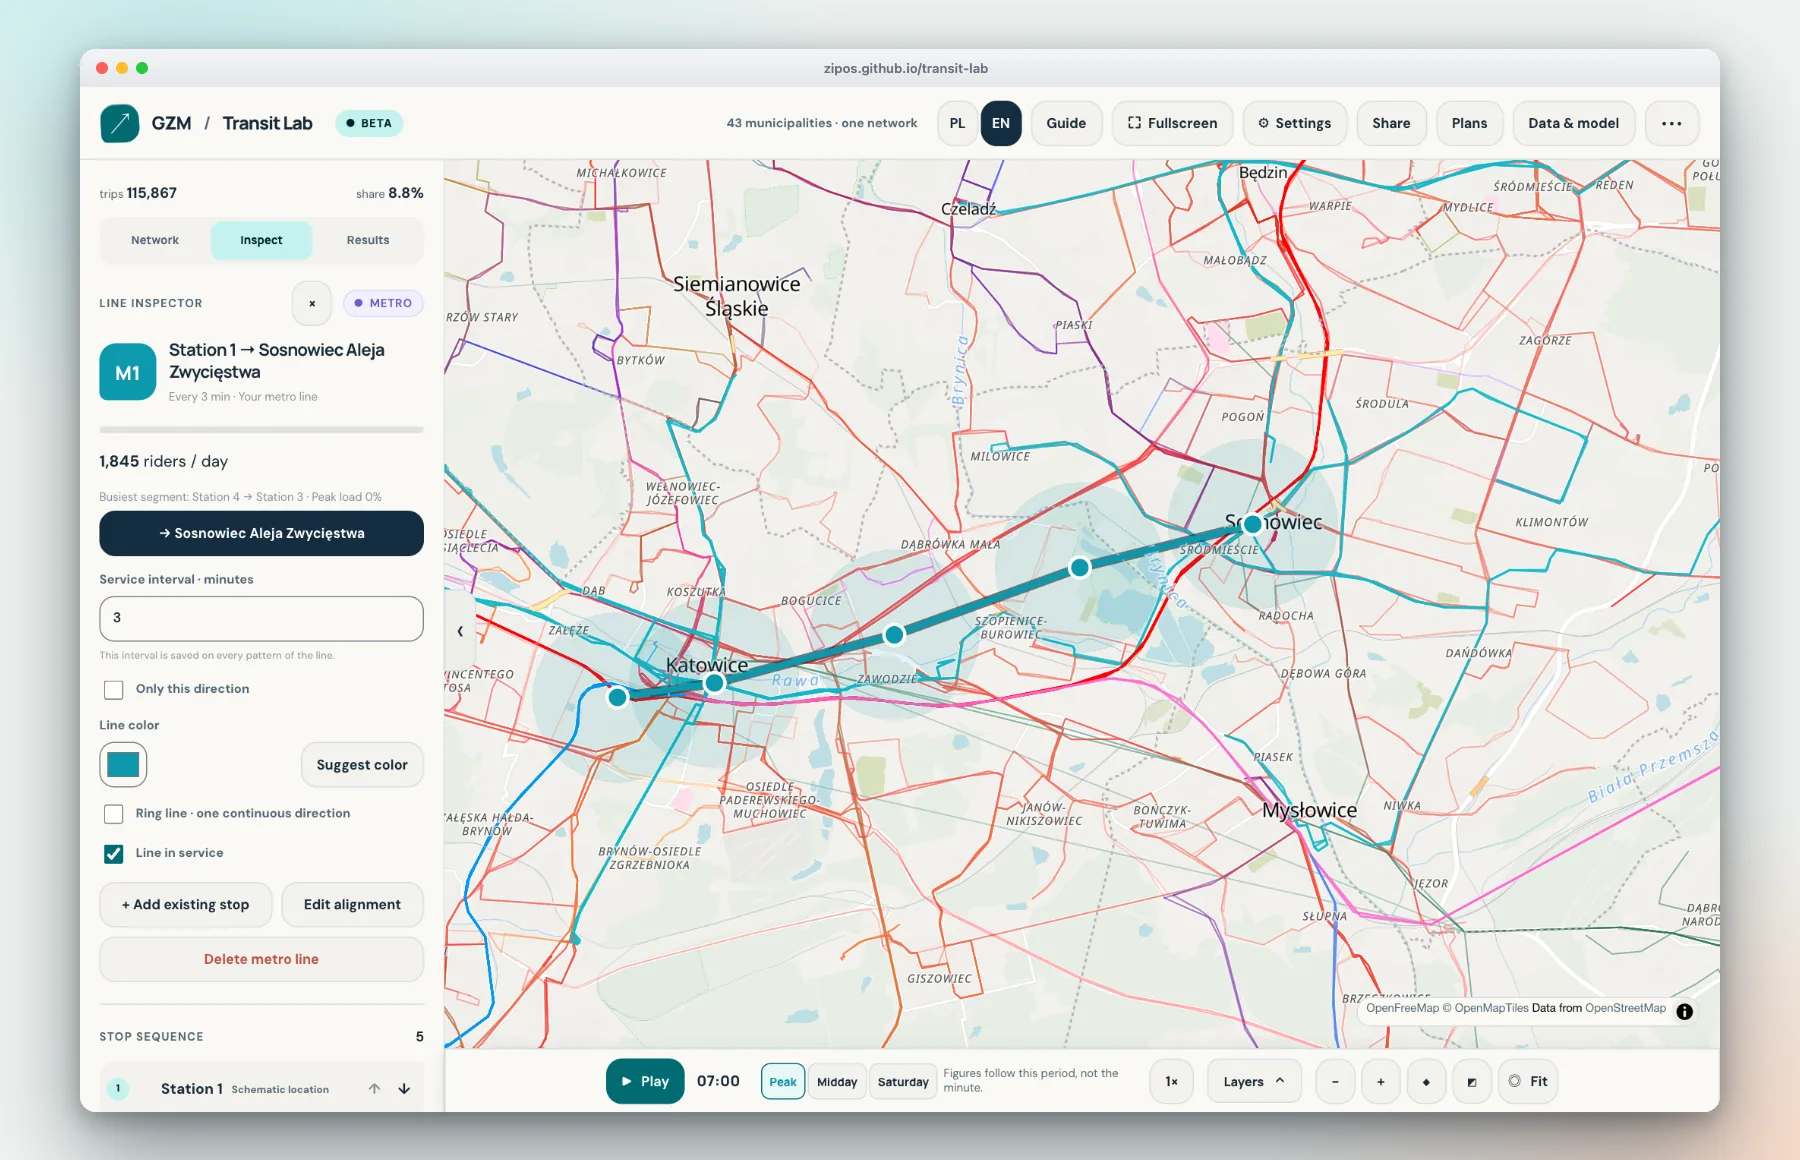
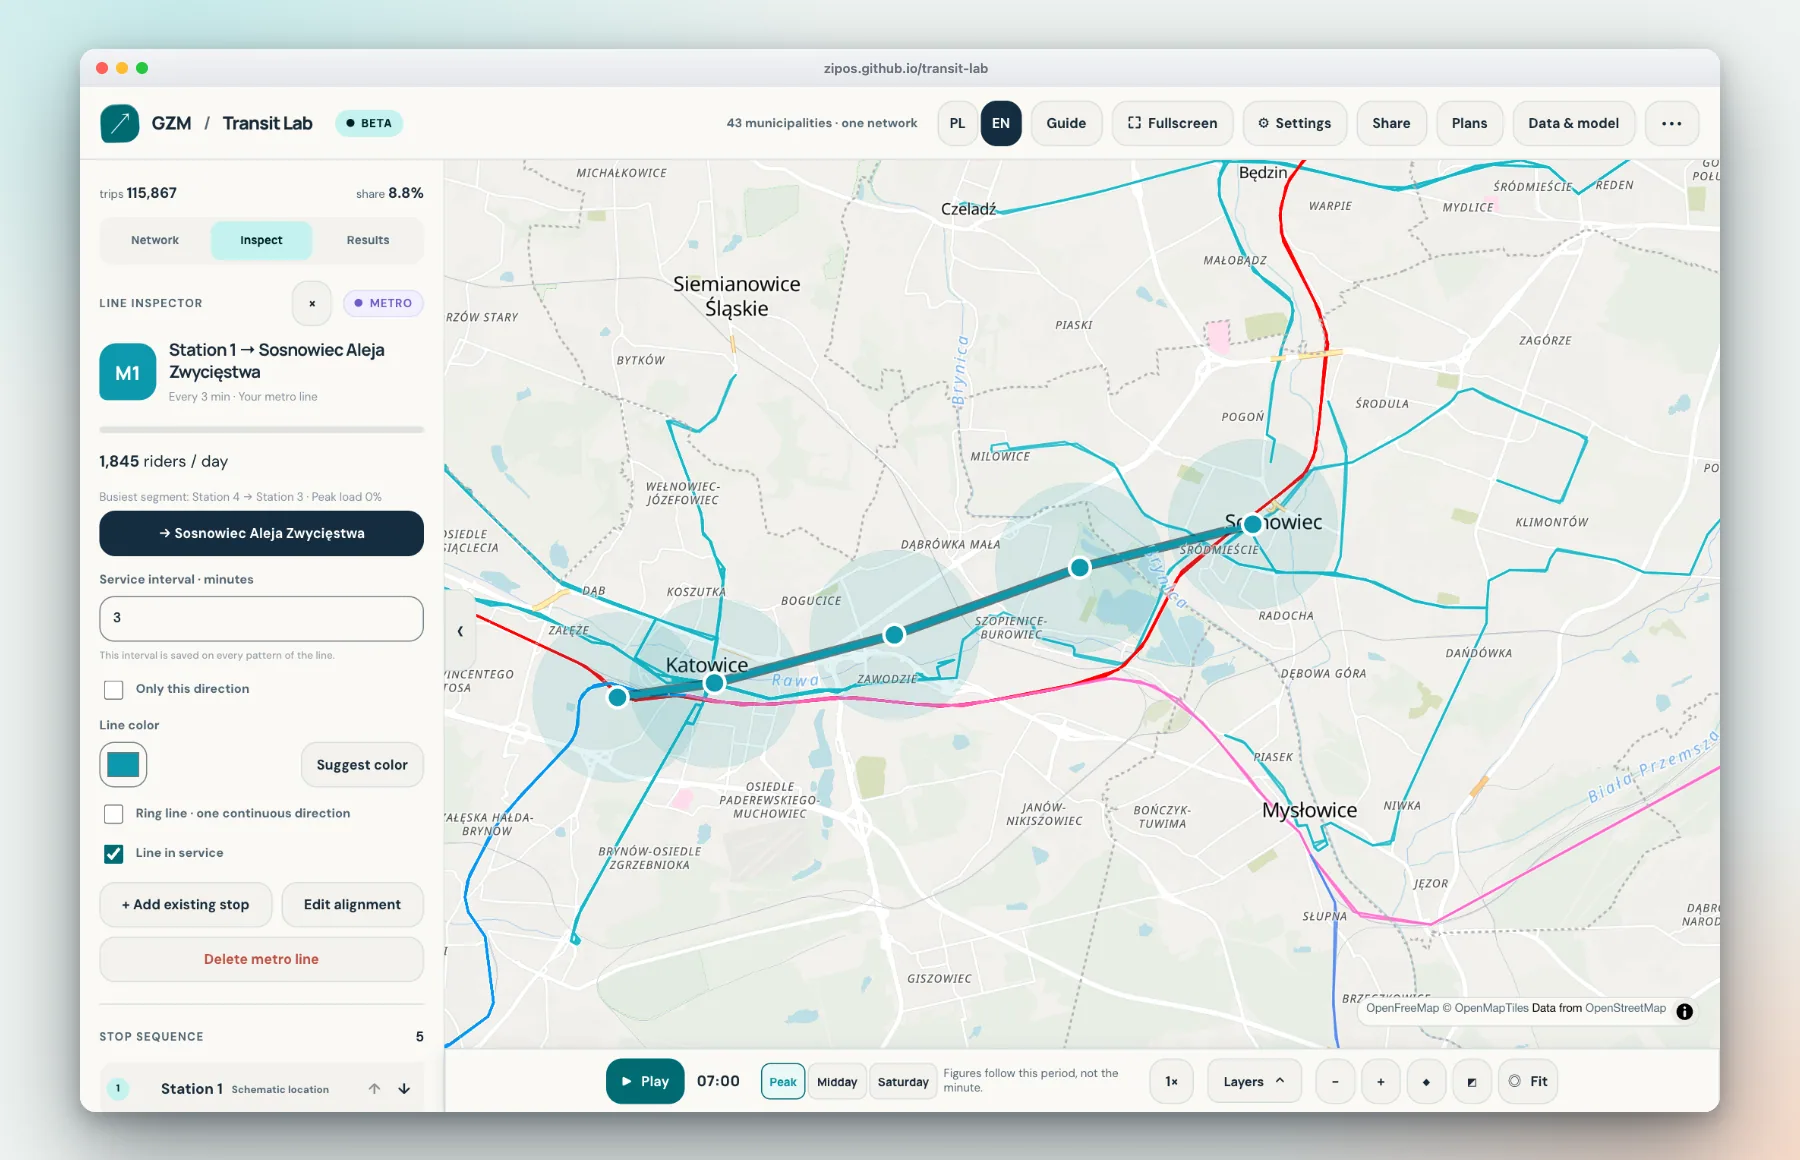
Add the screenshot generator to tools and re-shoot the README images.
tools/screenshots drives the real app with Playwright and composes the README
images: one capture job per scene, then framed, side-by-side and phone-mockup
composites as WebP. The images are re-taken on the light basemap with the
density grid and bus routes hidden where they only add clutter.

diff --git a/README.md b/README.md
@@ -144,7 +144,7 @@ Optional **Budget mode** adds planning-level capital and fleet costs, with a sou
 
 <img src="docs/screenshots/mobile.webp" alt="The app on a phone: map, network list and line inspector" width="100%">
 
-On a phone the side panels become tabs (**Map**, **Network**, **Inspect**, **Results**) and the controls fit in a two-row bar. The interface follows the system light or dark setting, and the language follows your browser: Polish when it starts with `pl`, English otherwise. You can switch at any time with **PL / EN**.
+On a phone the side panels become tabs (**Map**, **Network**, **Inspect**, **Results**) and the controls fit in a two-row bar. The panels follow the system light or dark setting, while the map stays light unless you change **Settings → Map style** to dark or to follow the system, because dense networks read more clearly on a light basemap. The language follows your browser: Polish when it starts with `pl`, English otherwise. You can switch at any time with **PL / EN**.
 
 <img src="docs/screenshots/language.webp" alt="The same line inspector in English and in Polish" width="100%">
 
@@ -324,6 +324,7 @@ All interface text is in `src/i18n/locales/en.json` and `pl.json`. Elements carr
 | `regions/<id>/` | Region manifest, historical proposals and challenges |
 | `data/` | Importers, pinned source list and the committed processed data |
 | `tests/` | Audits and the browser smoke test |
+| `tools/` | The baseline builder and the screenshot generator |
 | `deploy/` | Runbook and config for self-hosting |
 | `docs/` | Model notes, decisions, roadmap briefs and these screenshots |
 
@@ -382,6 +383,25 @@ python3 tests/pkm-import-audit.py
 There is one audit per feature (lines, share links, revisions, zones, flows, builder, budget, challenges), all listed in [`.github/workflows/ci.yml`](.github/workflows/ci.yml), which also runs a Playwright smoke test in a real browser. The PKM importer audit requires the raw PKM snapshot; the Node audits use committed processed data.
 
 The zoom-expression audit exists because MapLibre drops a layer whose style expression is invalid and only logs an event, which once made every route line disappear without an error.
+
+</details>
+
+<details>
+<summary><b>Regenerate the screenshots</b></summary>
+
+<br>
+
+The images in this README come from the real app, driven by Playwright. They need `cwebp` (from libwebp) and a one-time browser download:
+
+```bash
+cd tools/screenshots
+npm install && npx playwright install chromium
+node index.mjs                  # capture everything, then compose
+node index.mjs capture edit     # re-take one capture
+node index.mjs compose hero     # re-compose one image
+```
+
+`capture.mjs` holds one job per scene (it opens the app, hides layers that would clutter the shot, and saves raw screenshots), and `compose.mjs` turns them into the framed, side-by-side and phone-mockup images in `docs/screenshots/`. Set `CHROME_PATH` to use a Chromium you already have.
 
 </details>
 
